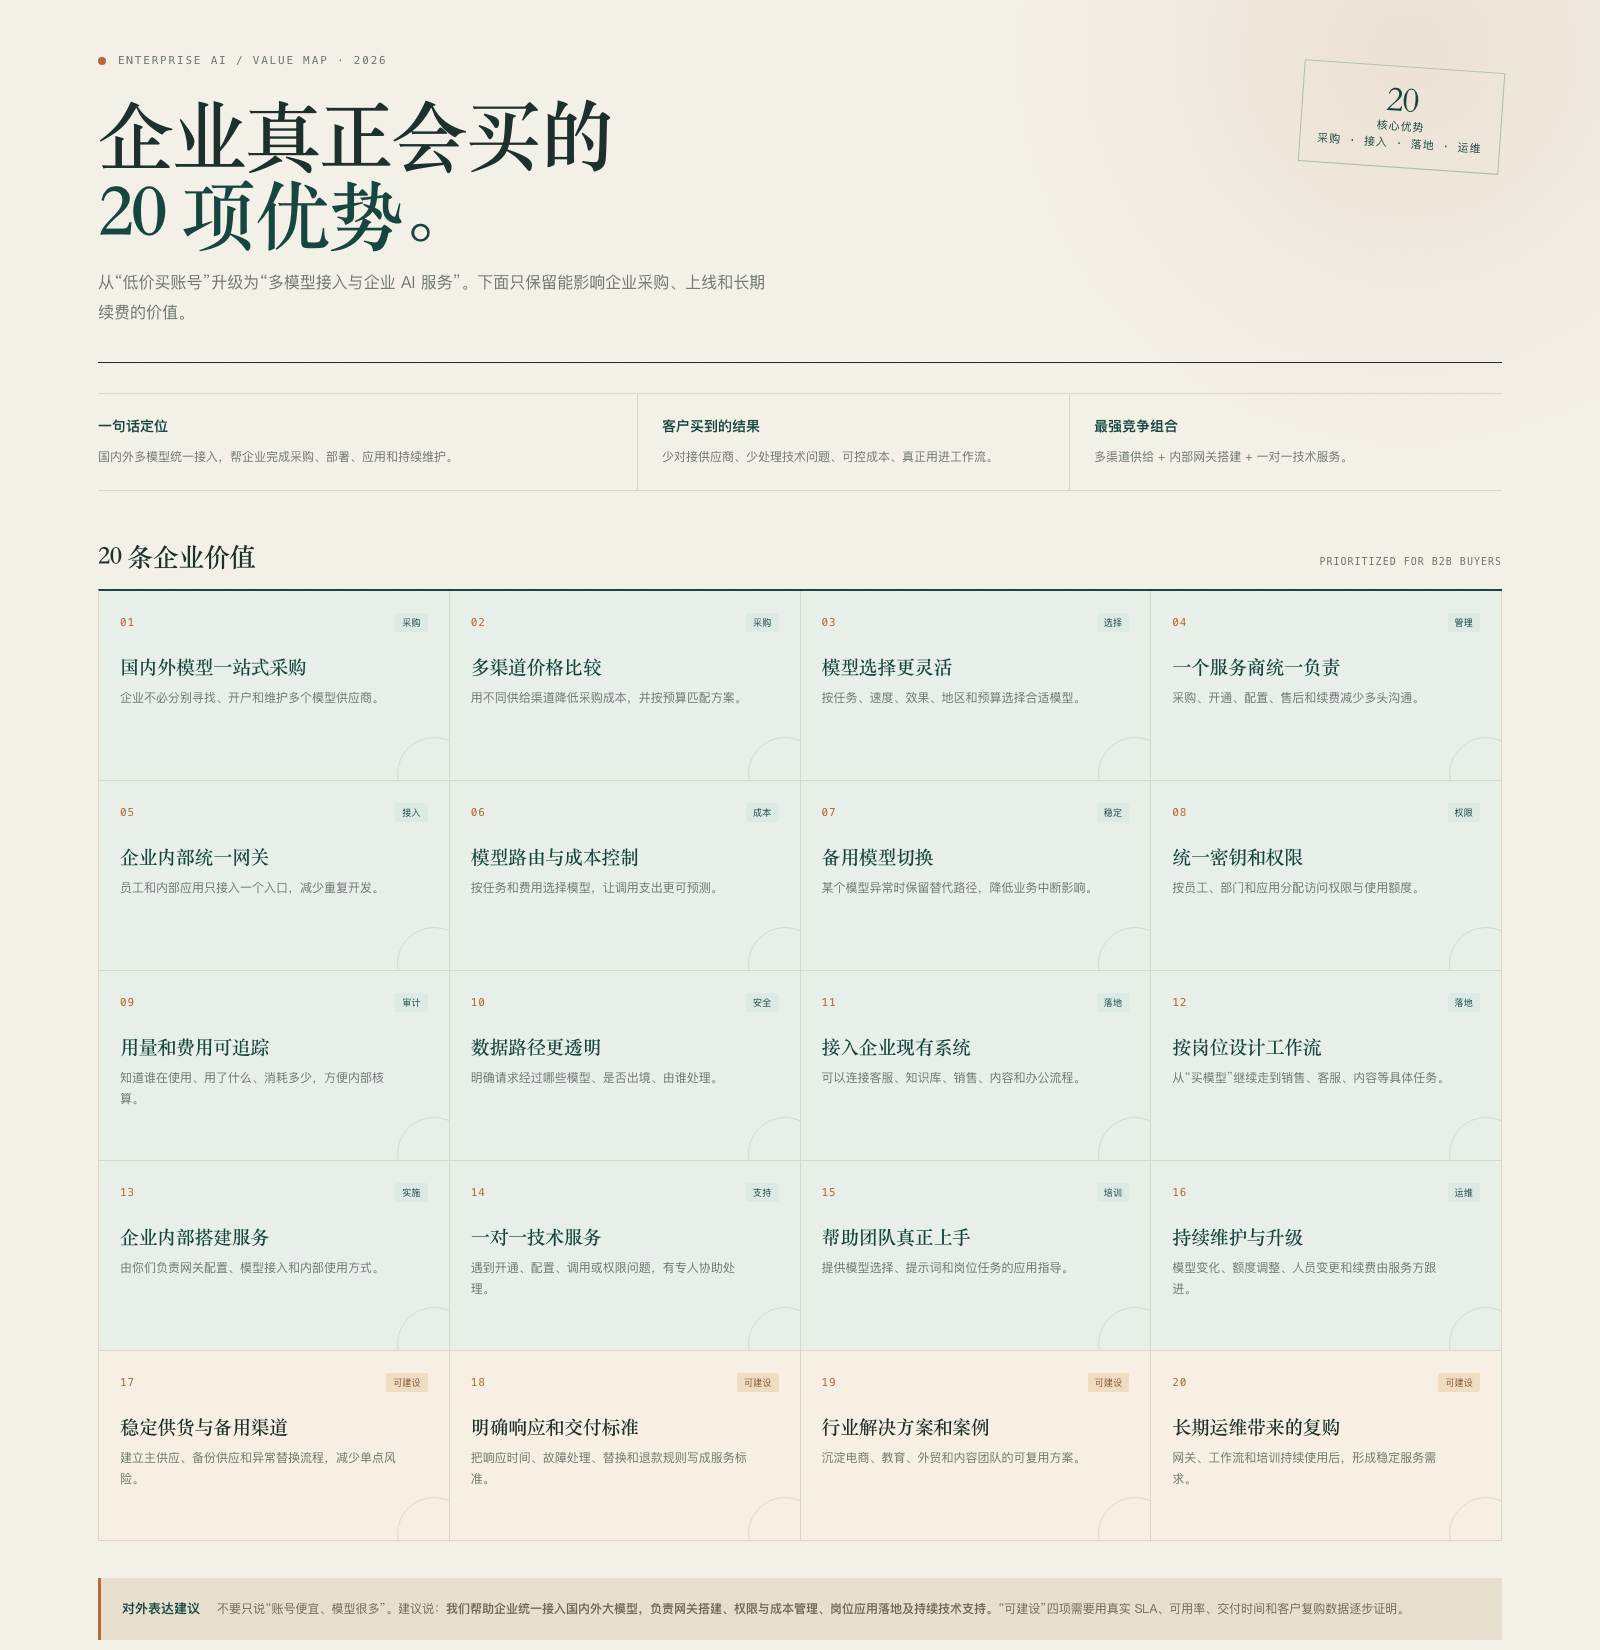
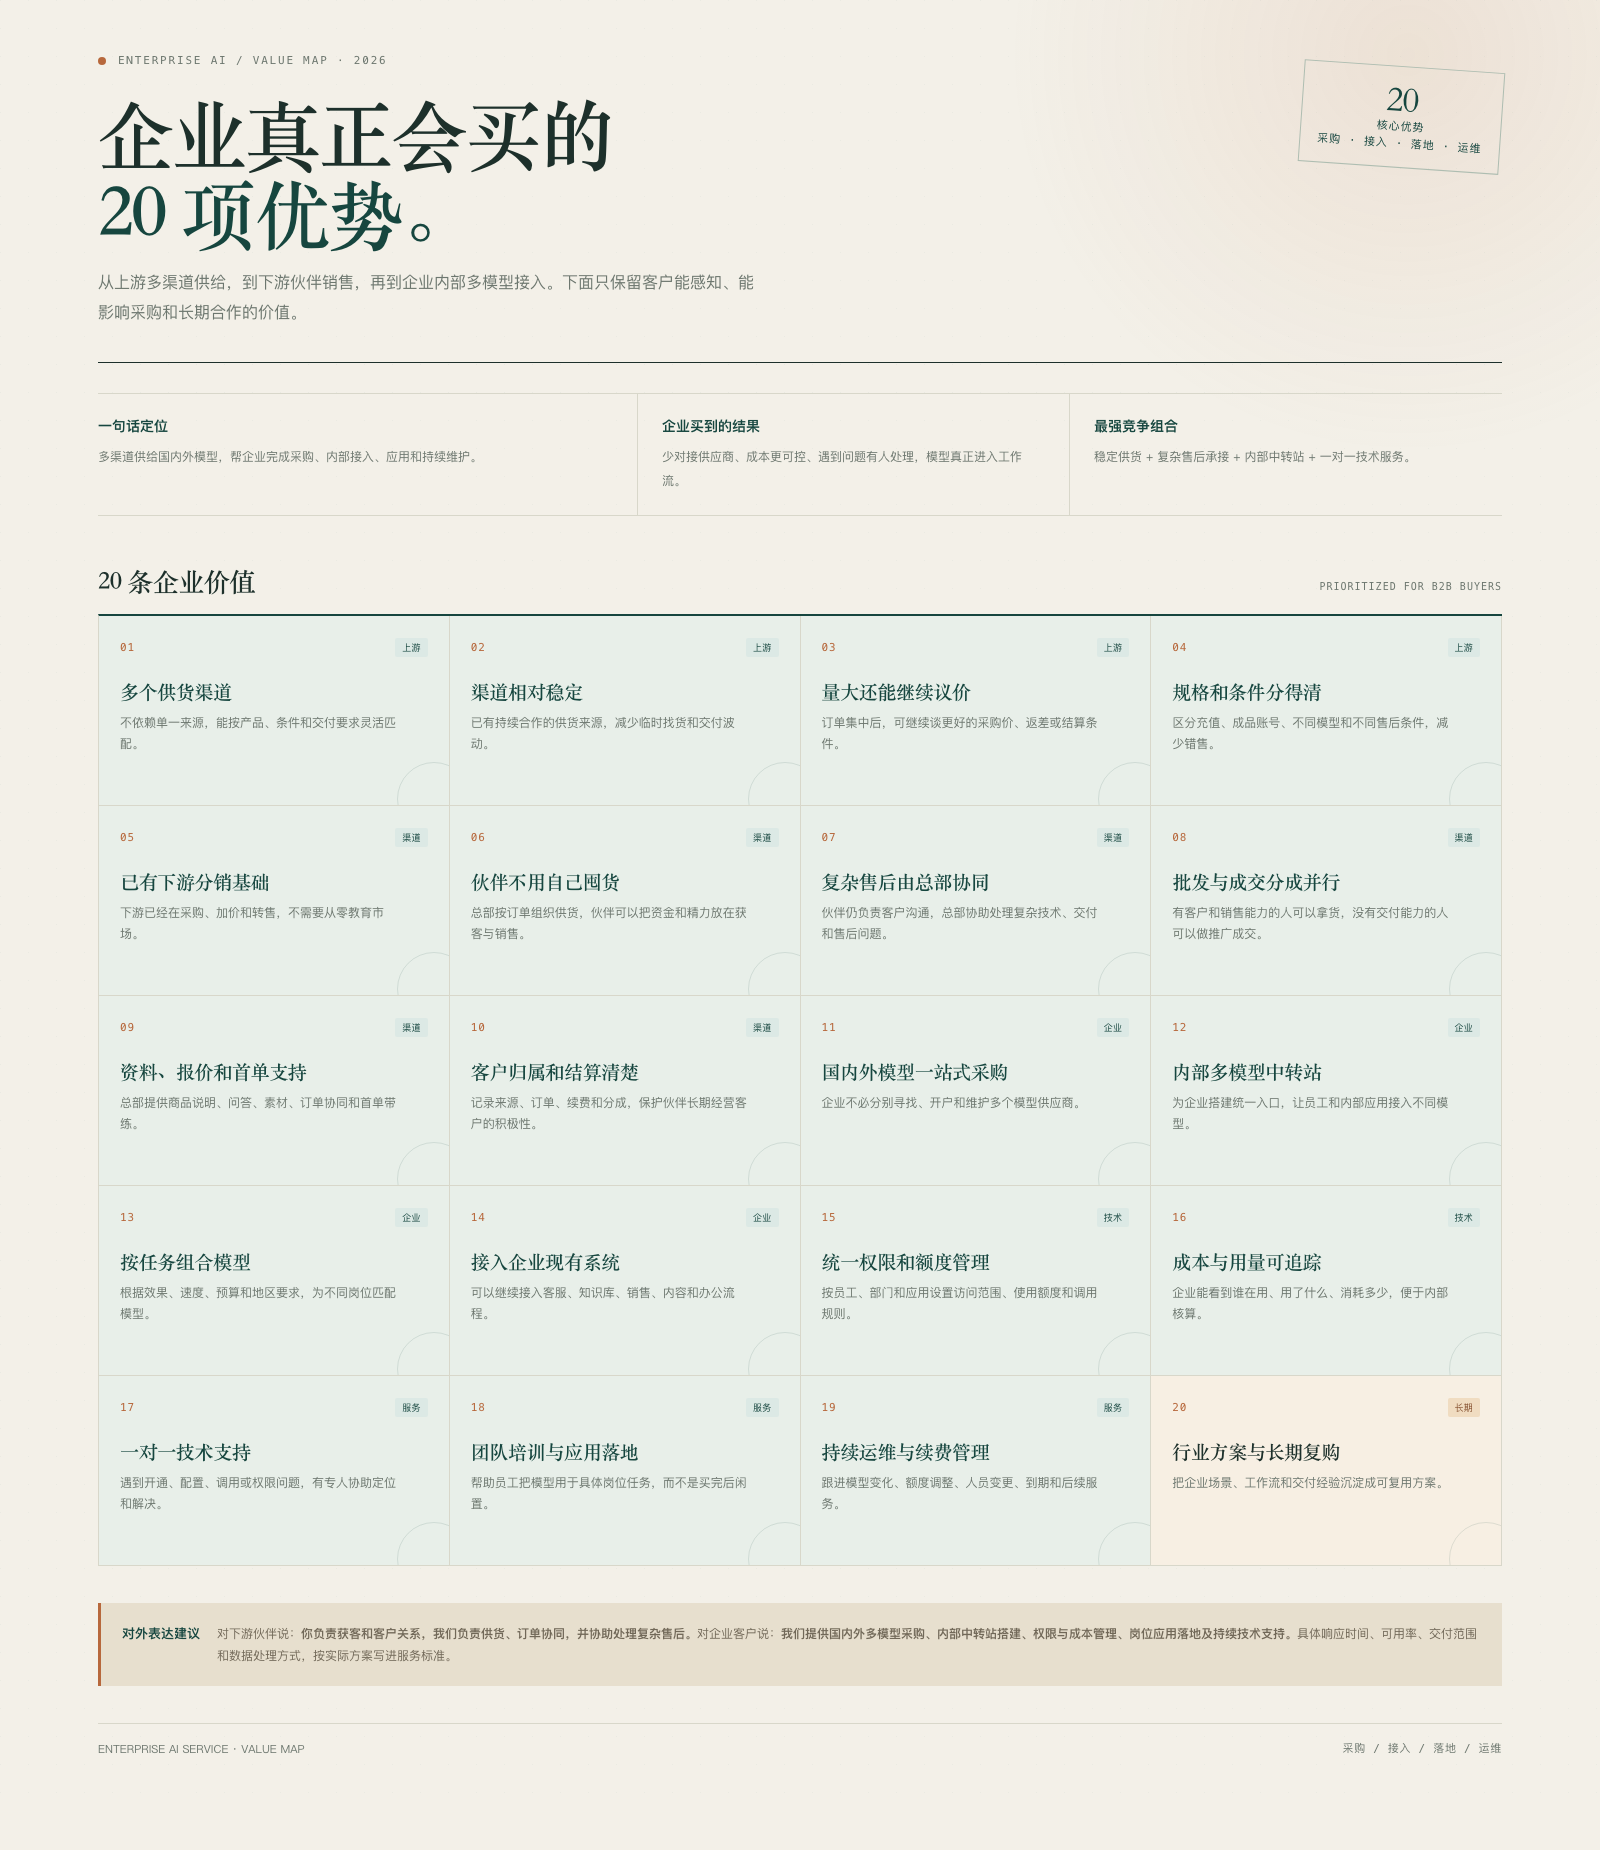
Refine enterprise and channel advantages

diff --git a/enterprise-advantages.html b/enterprise-advantages.html
@@ -78,48 +78,48 @@
       <div>
         <div class="kicker">Enterprise AI / value map · 2026</div>
         <h1>企业真正会买的<br><em>20 项优势。</em></h1>
-        <p class="lede">从“低价买账号”升级为“多模型接入与企业 AI 服务”。下面只保留能影响企业采购、上线和长期续费的价值。</p>
+        <p class="lede">从上游多渠道供给，到下游伙伴销售，再到企业内部多模型接入。下面只保留客户能感知、能影响采购和长期合作的价值。</p>
       </div>
       <div class="stamp"><strong>20</strong>核心优势<br>采购 · 接入 · 落地 · 运维</div>
     </header>
 
     <section class="thesis" aria-label="核心判断">
-      <div><b>一句话定位</b><span>国内外多模型统一接入，帮企业完成采购、部署、应用和持续维护。</span></div>
-      <div><b>客户买到的结果</b><span>少对接供应商、少处理技术问题、可控成本、真正用进工作流。</span></div>
-      <div><b>最强竞争组合</b><span>多渠道供给 + 内部网关搭建 + 一对一技术服务。</span></div>
+      <div><b>一句话定位</b><span>多渠道供给国内外模型，帮企业完成采购、内部接入、应用和持续维护。</span></div>
+      <div><b>企业买到的结果</b><span>少对接供应商、成本更可控、遇到问题有人处理，模型真正进入工作流。</span></div>
+      <div><b>最强竞争组合</b><span>稳定供货 + 复杂售后承接 + 内部中转站 + 一对一技术服务。</span></div>
     </section>
 
     <section aria-labelledby="advantage-title">
       <div class="section-label"><h2 id="advantage-title">20 条企业价值</h2><p>PRIORITIZED FOR B2B BUYERS</p></div>
       <div class="grid">
-        <article class="card core"><div class="num">01 <span class="tag">采购</span></div><h3>国内外模型一站式采购</h3><p>企业不必分别寻找、开户和维护多个模型供应商。</p></article>
-        <article class="card core"><div class="num">02 <span class="tag">采购</span></div><h3>多渠道价格比较</h3><p>用不同供给渠道降低采购成本，并按预算匹配方案。</p></article>
-        <article class="card core"><div class="num">03 <span class="tag">选择</span></div><h3>模型选择更灵活</h3><p>按任务、速度、效果、地区和预算选择合适模型。</p></article>
-        <article class="card core"><div class="num">04 <span class="tag">管理</span></div><h3>一个服务商统一负责</h3><p>采购、开通、配置、售后和续费减少多头沟通。</p></article>
+        <article class="card core"><div class="num">01 <span class="tag">上游</span></div><h3>多个供货渠道</h3><p>不依赖单一来源，能按产品、条件和交付要求灵活匹配。</p></article>
+        <article class="card core"><div class="num">02 <span class="tag">上游</span></div><h3>渠道相对稳定</h3><p>已有持续合作的供货来源，减少临时找货和交付波动。</p></article>
+        <article class="card core"><div class="num">03 <span class="tag">上游</span></div><h3>量大还能继续议价</h3><p>订单集中后，可继续谈更好的采购价、返差或结算条件。</p></article>
+        <article class="card core"><div class="num">04 <span class="tag">上游</span></div><h3>规格和条件分得清</h3><p>区分充值、成品账号、不同模型和不同售后条件，减少错售。</p></article>
 
-        <article class="card core"><div class="num">05 <span class="tag">接入</span></div><h3>企业内部统一网关</h3><p>员工和内部应用只接入一个入口，减少重复开发。</p></article>
-        <article class="card core"><div class="num">06 <span class="tag">成本</span></div><h3>模型路由与成本控制</h3><p>按任务和费用选择模型，让调用支出更可预测。</p></article>
-        <article class="card core"><div class="num">07 <span class="tag">稳定</span></div><h3>备用模型切换</h3><p>某个模型异常时保留替代路径，降低业务中断影响。</p></article>
-        <article class="card core"><div class="num">08 <span class="tag">权限</span></div><h3>统一密钥和权限</h3><p>按员工、部门和应用分配访问权限与使用额度。</p></article>
+        <article class="card core"><div class="num">05 <span class="tag">渠道</span></div><h3>已有下游分销基础</h3><p>下游已经在采购、加价和转售，不需要从零教育市场。</p></article>
+        <article class="card core"><div class="num">06 <span class="tag">渠道</span></div><h3>伙伴不用自己囤货</h3><p>总部按订单组织供货，伙伴可以把资金和精力放在获客与销售。</p></article>
+        <article class="card core"><div class="num">07 <span class="tag">渠道</span></div><h3>复杂售后由总部协同</h3><p>伙伴仍负责客户沟通，总部协助处理复杂技术、交付和售后问题。</p></article>
+        <article class="card core"><div class="num">08 <span class="tag">渠道</span></div><h3>批发与成交分成并行</h3><p>有客户和销售能力的人可以拿货，没有交付能力的人可以做推广成交。</p></article>
 
-        <article class="card core"><div class="num">09 <span class="tag">审计</span></div><h3>用量和费用可追踪</h3><p>知道谁在使用、用了什么、消耗多少，方便内部核算。</p></article>
-        <article class="card core"><div class="num">10 <span class="tag">安全</span></div><h3>数据路径更透明</h3><p>明确请求经过哪些模型、是否出境、由谁处理。</p></article>
-        <article class="card core"><div class="num">11 <span class="tag">落地</span></div><h3>接入企业现有系统</h3><p>可以连接客服、知识库、销售、内容和办公流程。</p></article>
-        <article class="card core"><div class="num">12 <span class="tag">落地</span></div><h3>按岗位设计工作流</h3><p>从“买模型”继续走到销售、客服、内容等具体任务。</p></article>
+        <article class="card core"><div class="num">09 <span class="tag">渠道</span></div><h3>资料、报价和首单支持</h3><p>总部提供商品说明、问答、素材、订单协同和首单带练。</p></article>
+        <article class="card core"><div class="num">10 <span class="tag">渠道</span></div><h3>客户归属和结算清楚</h3><p>记录来源、订单、续费和分成，保护伙伴长期经营客户的积极性。</p></article>
+        <article class="card core"><div class="num">11 <span class="tag">企业</span></div><h3>国内外模型一站式采购</h3><p>企业不必分别寻找、开户和维护多个模型供应商。</p></article>
+        <article class="card core"><div class="num">12 <span class="tag">企业</span></div><h3>内部多模型中转站</h3><p>为企业搭建统一入口，让员工和内部应用接入不同模型。</p></article>
 
-        <article class="card core"><div class="num">13 <span class="tag">实施</span></div><h3>企业内部搭建服务</h3><p>由你们负责网关配置、模型接入和内部使用方式。</p></article>
-        <article class="card core"><div class="num">14 <span class="tag">支持</span></div><h3>一对一技术服务</h3><p>遇到开通、配置、调用或权限问题，有专人协助处理。</p></article>
-        <article class="card core"><div class="num">15 <span class="tag">培训</span></div><h3>帮助团队真正上手</h3><p>提供模型选择、提示词和岗位任务的应用指导。</p></article>
-        <article class="card core"><div class="num">16 <span class="tag">运维</span></div><h3>持续维护与升级</h3><p>模型变化、额度调整、人员变更和续费由服务方跟进。</p></article>
+        <article class="card core"><div class="num">13 <span class="tag">企业</span></div><h3>按任务组合模型</h3><p>根据效果、速度、预算和地区要求，为不同岗位匹配模型。</p></article>
+        <article class="card core"><div class="num">14 <span class="tag">企业</span></div><h3>接入企业现有系统</h3><p>可以继续接入客服、知识库、销售、内容和办公流程。</p></article>
+        <article class="card core"><div class="num">15 <span class="tag">技术</span></div><h3>统一权限和额度管理</h3><p>按员工、部门和应用设置访问范围、使用额度和调用规则。</p></article>
+        <article class="card core"><div class="num">16 <span class="tag">技术</span></div><h3>成本与用量可追踪</h3><p>企业能看到谁在用、用了什么、消耗多少，便于内部核算。</p></article>
 
-        <article class="card build"><div class="num">17 <span class="tag">可建设</span></div><h3>稳定供货与备用渠道</h3><p>建立主供应、备份供应和异常替换流程，减少单点风险。</p></article>
-        <article class="card build"><div class="num">18 <span class="tag">可建设</span></div><h3>明确响应和交付标准</h3><p>把响应时间、故障处理、替换和退款规则写成服务标准。</p></article>
-        <article class="card build"><div class="num">19 <span class="tag">可建设</span></div><h3>行业解决方案和案例</h3><p>沉淀电商、教育、外贸和内容团队的可复用方案。</p></article>
-        <article class="card build"><div class="num">20 <span class="tag">可建设</span></div><h3>长期运维带来的复购</h3><p>网关、工作流和培训持续使用后，形成稳定服务需求。</p></article>
+        <article class="card core"><div class="num">17 <span class="tag">服务</span></div><h3>一对一技术支持</h3><p>遇到开通、配置、调用或权限问题，有专人协助定位和解决。</p></article>
+        <article class="card core"><div class="num">18 <span class="tag">服务</span></div><h3>团队培训与应用落地</h3><p>帮助员工把模型用于具体岗位任务，而不是买完后闲置。</p></article>
+        <article class="card core"><div class="num">19 <span class="tag">服务</span></div><h3>持续运维与续费管理</h3><p>跟进模型变化、额度调整、人员变更、到期和后续服务。</p></article>
+        <article class="card build"><div class="num">20 <span class="tag">长期</span></div><h3>行业方案与长期复购</h3><p>把企业场景、工作流和交付经验沉淀成可复用方案。</p></article>
       </div>
     </section>
 
-    <aside class="note"><b>对外表达建议</b><p>不要只说“账号便宜、模型很多”。建议说：<strong>我们帮助企业统一接入国内外大模型，负责网关搭建、权限与成本管理、岗位应用落地及持续技术支持。</strong>“可建设”四项需要用真实 SLA、可用率、交付时间和客户复购数据逐步证明。</p></aside>
+    <aside class="note"><b>对外表达建议</b><p>对下游伙伴说：<strong>你负责获客和客户关系，我们负责供货、订单协同，并协助处理复杂售后。</strong>对企业客户说：<strong>我们提供国内外多模型采购、内部中转站搭建、权限与成本管理、岗位应用落地及持续技术支持。</strong>具体响应时间、可用率、交付范围和数据处理方式，按实际方案写进服务标准。</p></aside>
     <footer><span>ENTERPRISE AI SERVICE · VALUE MAP</span><span>采购 / 接入 / 落地 / 运维</span></footer>
   </main>
 </body>
